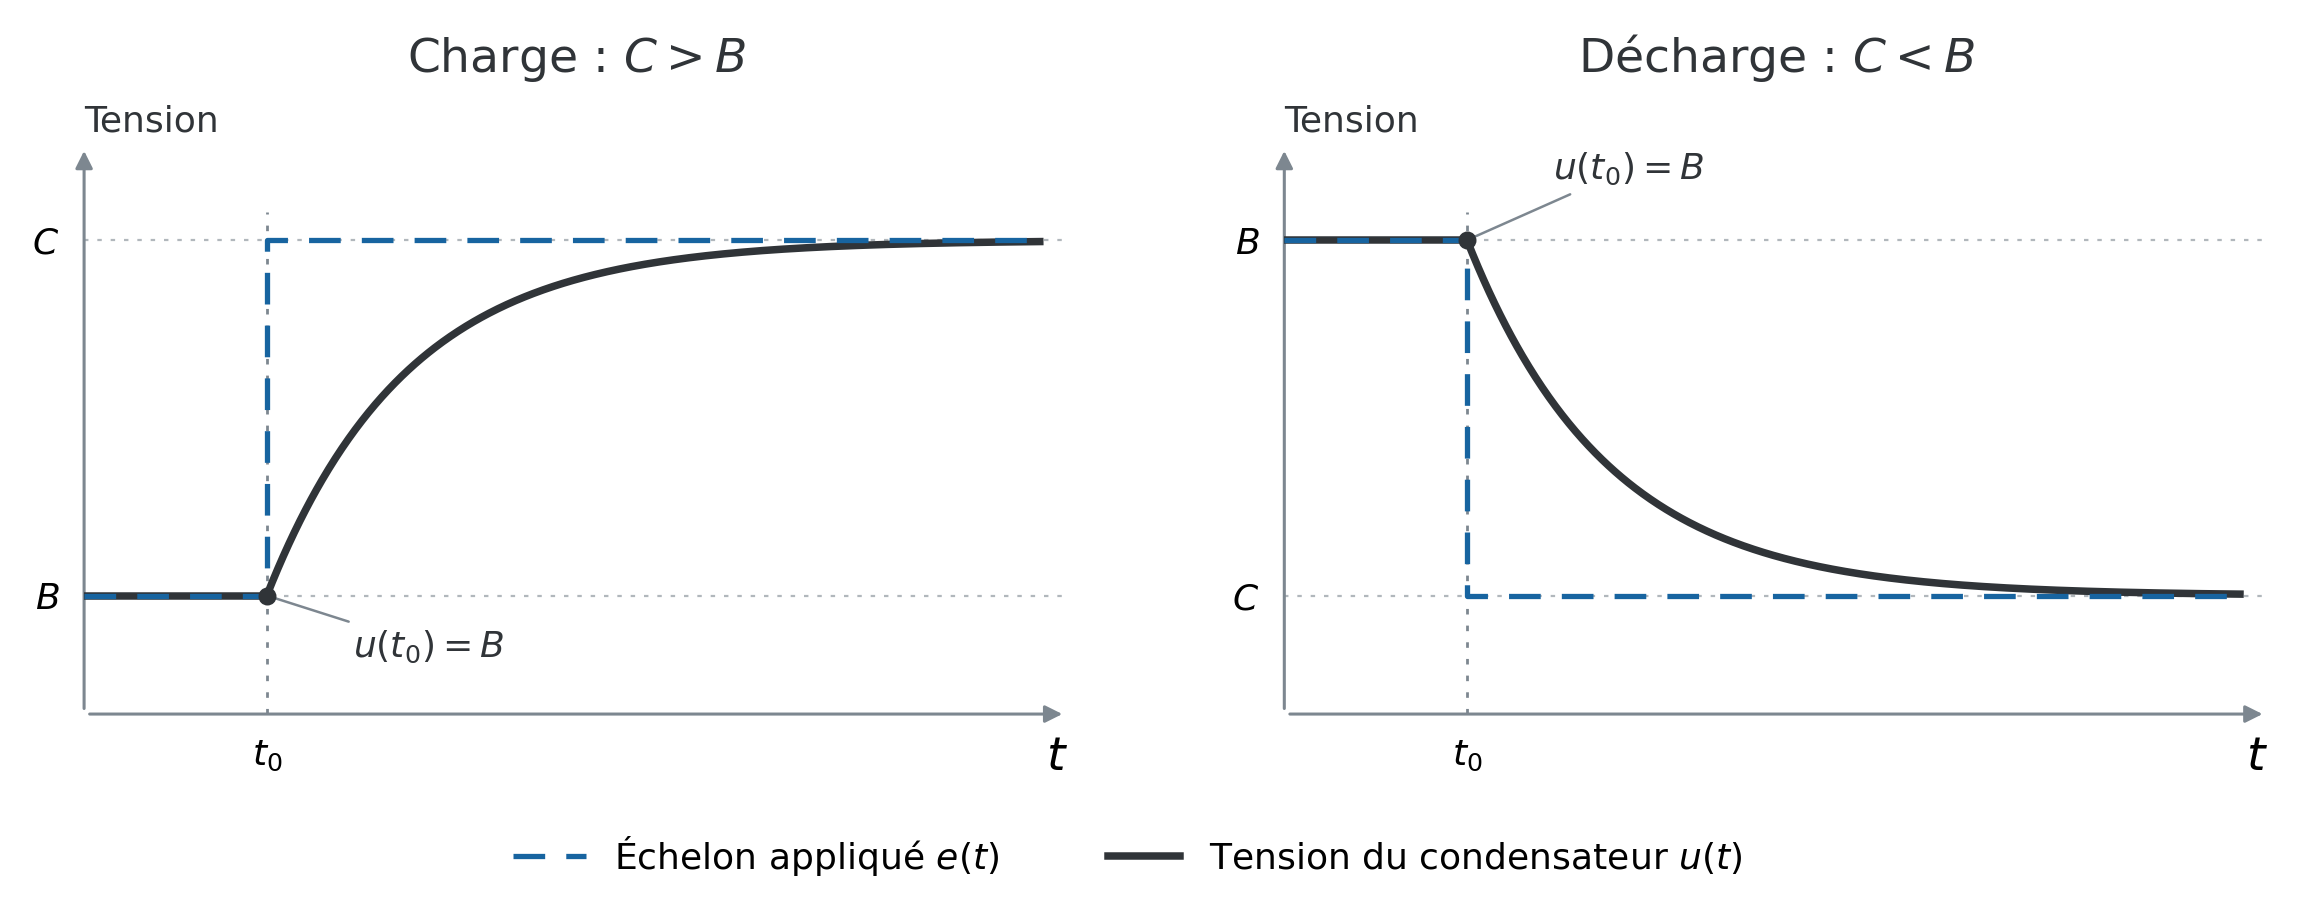
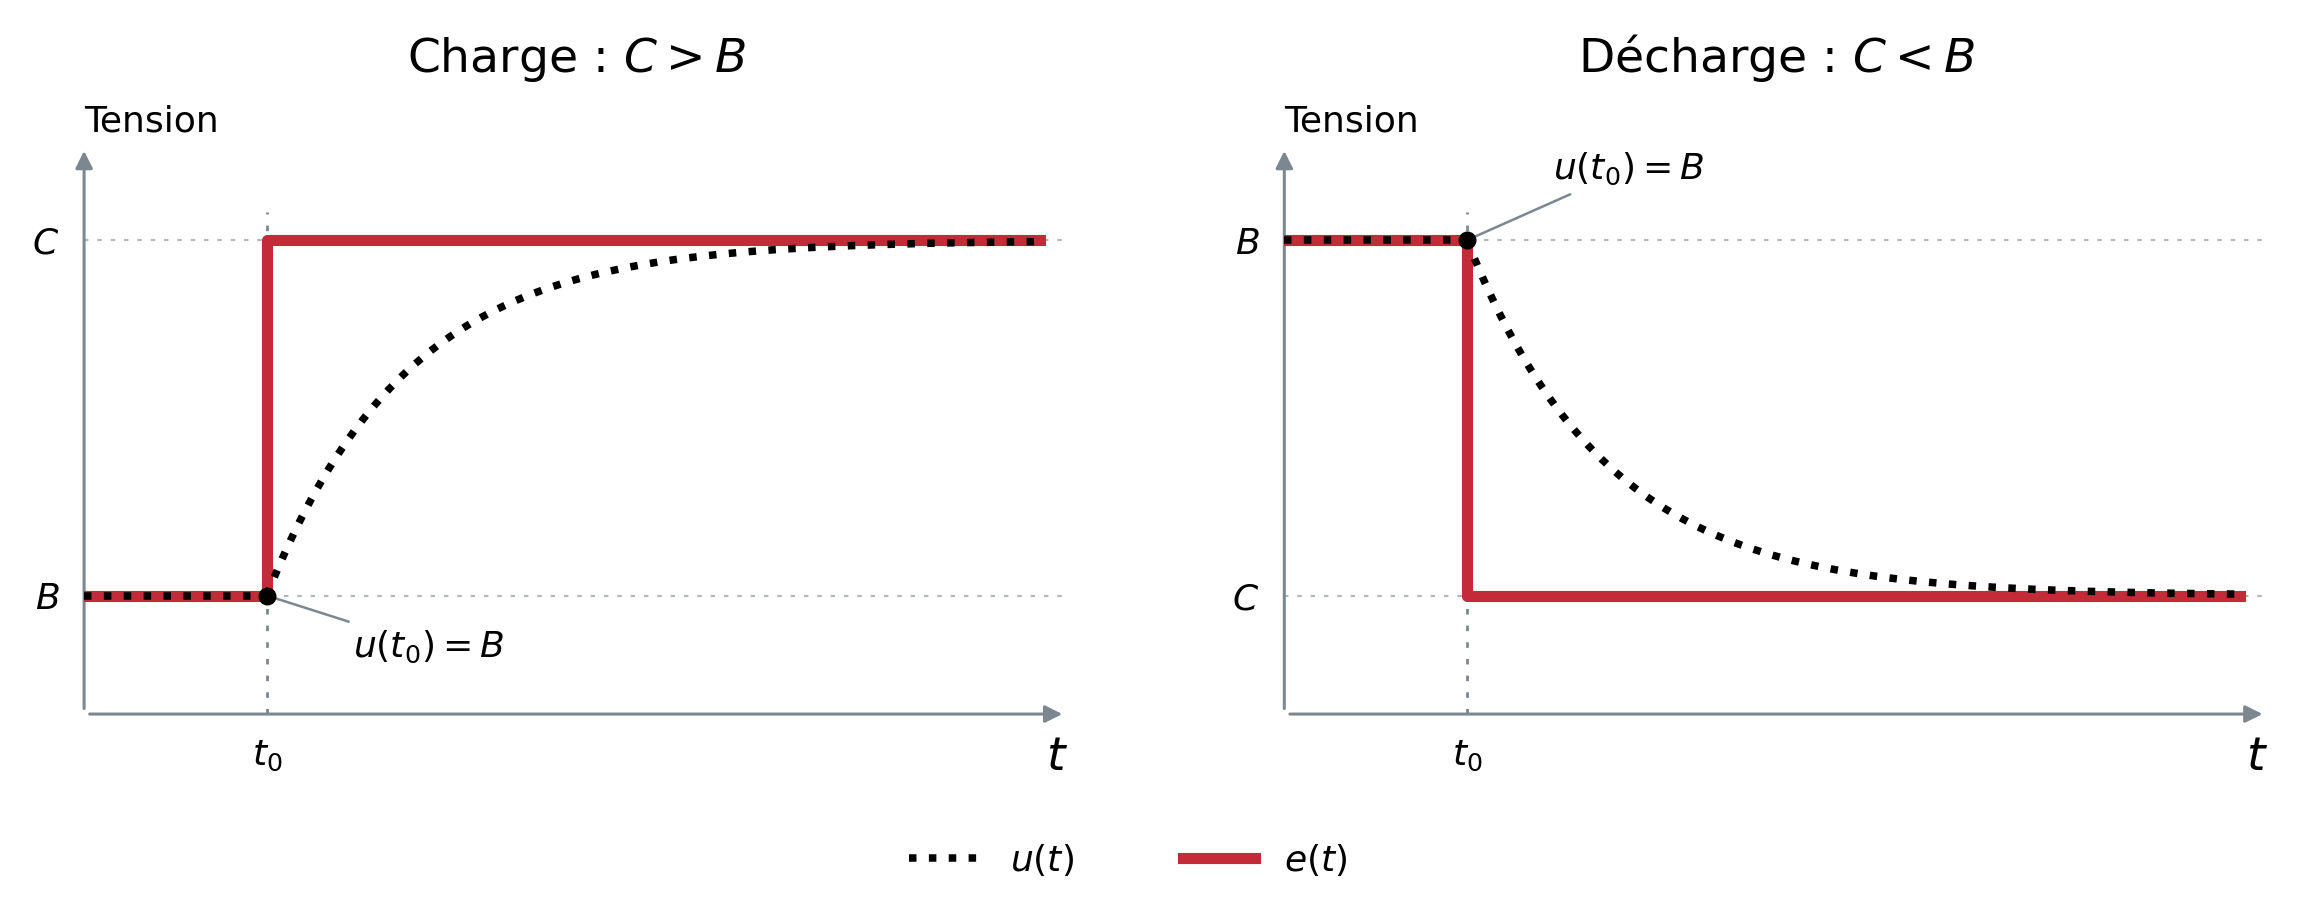
update

diff --git a/phyexp2DL/RCmes_reponse_echelon.py b/phyexp2DL/RCmes_reponse_echelon.py
@@ -12,7 +12,7 @@ out = Path(__file__).resolve().parent
 plt.rcParams.update({'font.family': 'DejaVu Sans', 'font.size': 13})
 fig, axes = plt.subplots(1, 2, figsize=(12, 4.9))
 fig.subplots_adjust(left=.065, right=.975, bottom=.23, top=.82, wspace=.22)
-ink, blue, grey = '#303438', '#1764a0', '#7d8790'
+ink, red, grey = '#000000', '#c42b38', '#7d8790'
 t0, tau = 0., 1.
 for ax, B, C, title in zip(axes, [.25, 1.], [1., .25],
                          ['Charge : $C>B$', 'Décharge : $C<B$']):
@@ -33,12 +33,12 @@ for ax, B, C, title in zip(axes, [.25, 1.], [1., .25],
         ax.axhline(level, color=grey, lw=.8, ls=(0, (2, 4)), alpha=.6)
     ax.plot([t0, t0], [0, 1.06], color=grey, lw=1, ls=(0, (2, 4)))
     # La réponse continue se superpose à l'entrée avant l'échelon.
-    ax.plot([-1.3, t0], [B, B], color=ink, lw=2.7, zorder=3)
+    ax.plot([-1.3, t0], [B, B], color=ink, lw=2.7, ls=':', zorder=4)
     t = np.linspace(t0, 5.5, 700)
     u = C + (B-C)*np.exp(-(t-t0)/tau)
-    ax.plot(t, u, color=ink, lw=2.7, zorder=4)
-    ax.plot([-1.3, t0, t0, 5.5], [B, B, C, C], color=blue,
-            lw=1.9, ls=(0, (6, 4)), zorder=5)
+    ax.plot(t, u, color=ink, lw=2.7, ls=':', zorder=4)
+    ax.plot([-1.3, t0, t0, 5.5], [B, B, C, C], color=red,
+            lw=4, zorder=3)
     ax.scatter([t0], [B], color=ink, s=30, zorder=6)
     # L'annotation souligne la continuité sans masquer les courbes.
     ax.annotate(r'$u(t_0)=B$', xy=(t0, B),
@@ -46,9 +46,9 @@ for ax, B, C, title in zip(axes, [.25, 1.], [1., .25],
                 color=ink, fontsize=13, ha='center',
                 arrowprops=dict(arrowstyle='-', lw=.9, color=grey))
 
-fig.legend([Line2D([], [], color=blue, lw=1.9, ls=(0, (6, 4))),
-            Line2D([], [], color=ink, lw=2.7)],
-           [r'Échelon appliqué $e(t)$', r'Tension du condensateur $u(t)$'],
+fig.legend([Line2D([], [], color=ink, lw=2.7, ls=':'),
+            Line2D([], [], color=red, lw=4)],
+           [r'$u(t)$', r'$e(t)$'],
            loc='lower center', bbox_to_anchor=(.5, .03), ncol=2,
            frameon=False, columnspacing=3)
 for ext in ('svg', 'png'):
